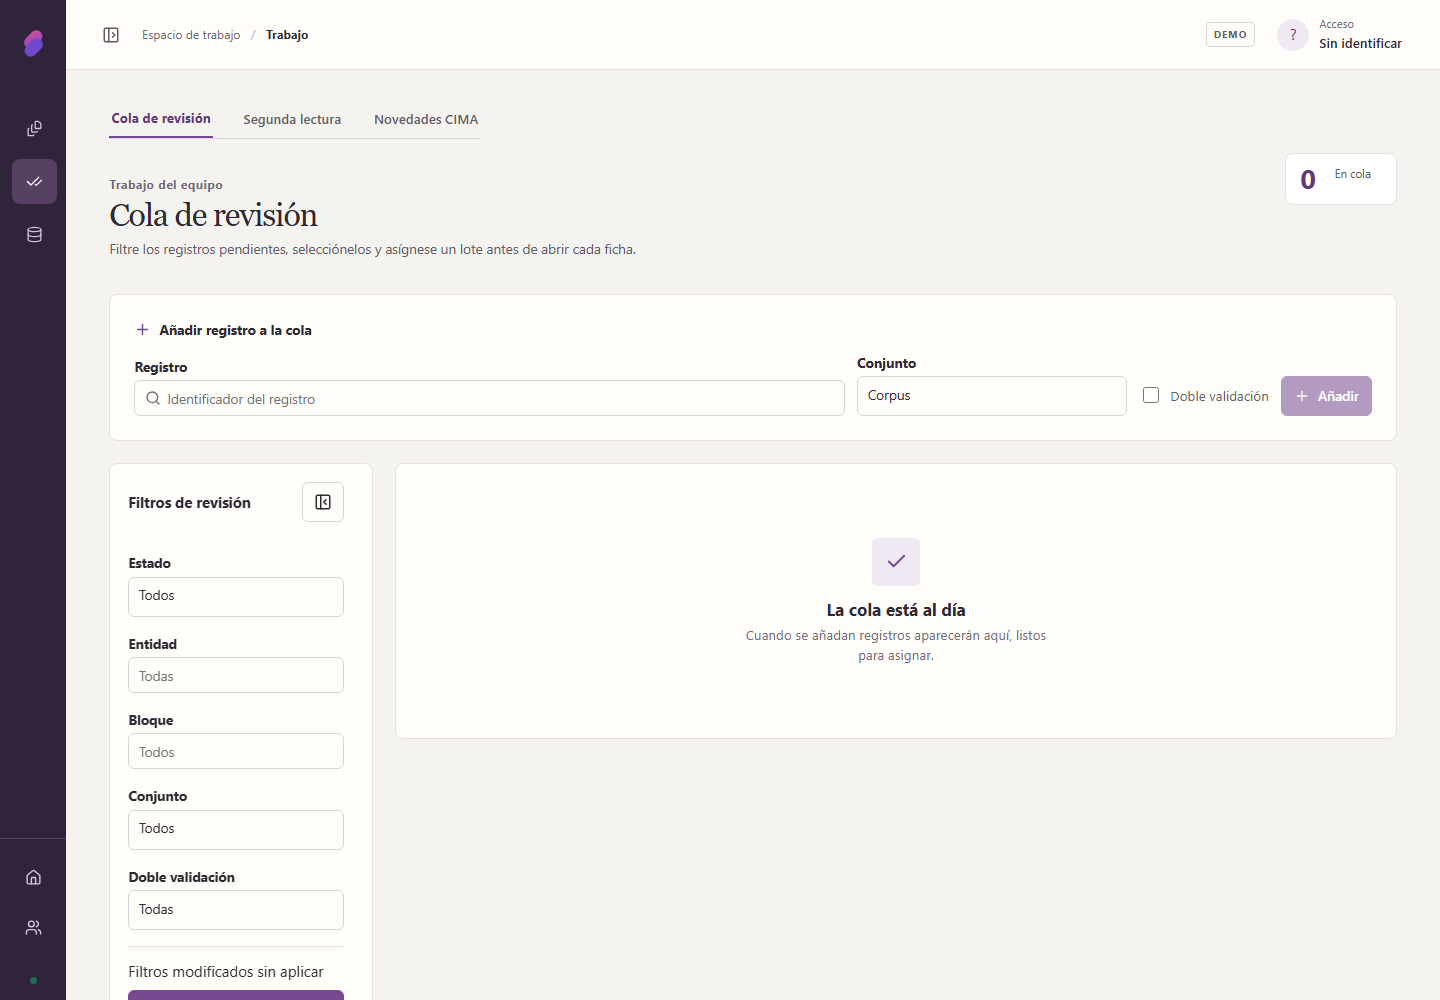
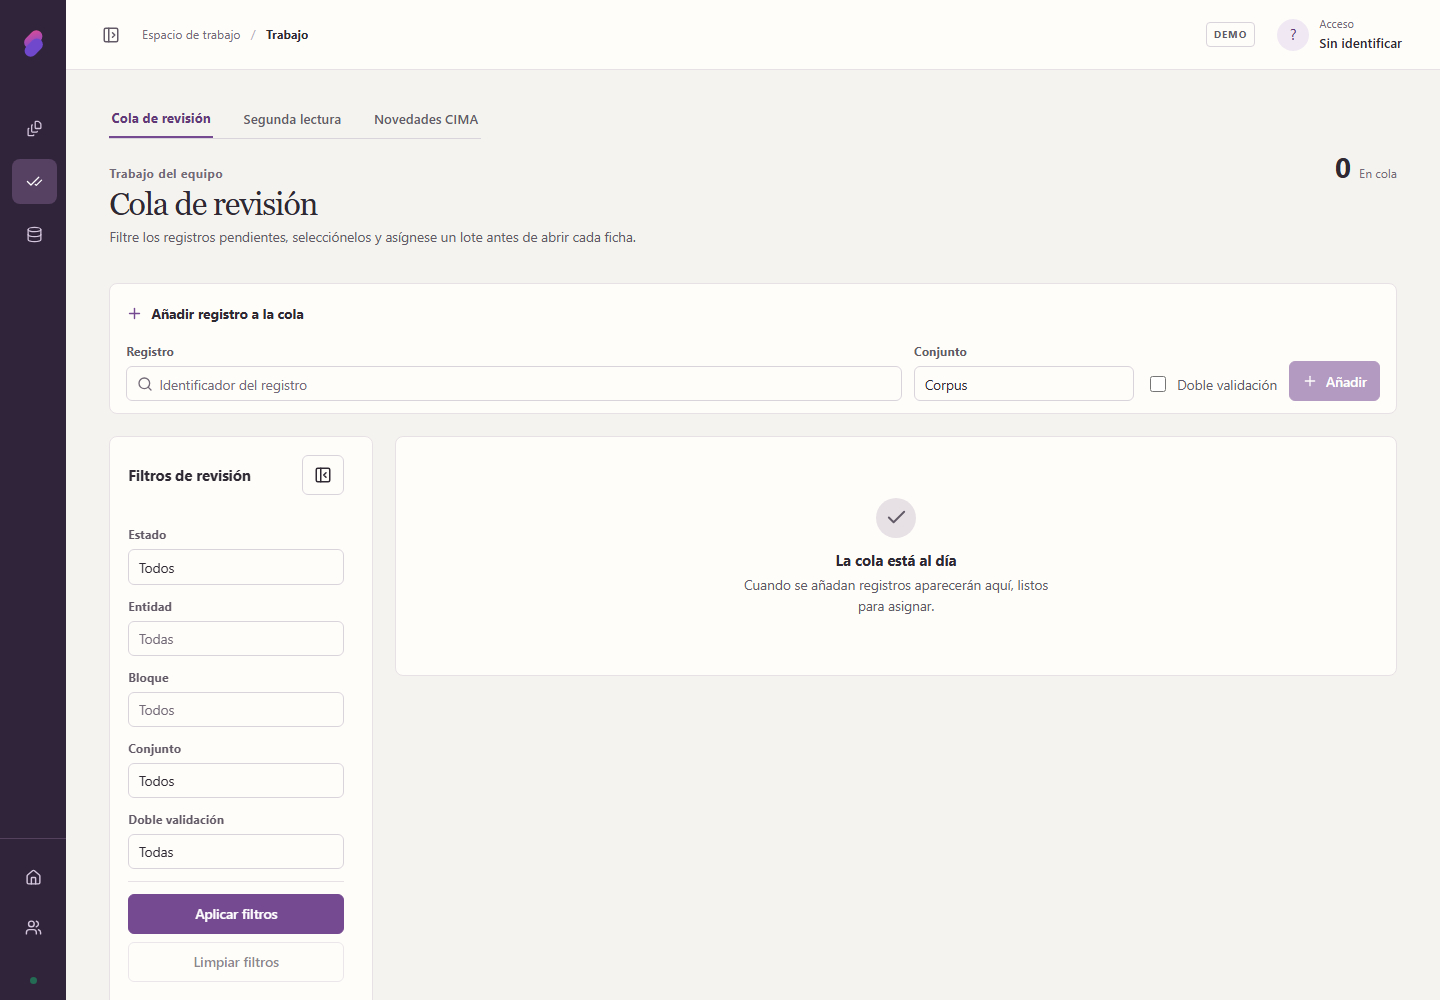
Pulir Trabajo y Fuentes con la capa común
Campos, cifra de cabecera, estado vacío y panel de filtros pasan a la
capa común. La cola agrupa el alta en una fila y usa iconos coherentes;
deja de anunciar «Filtros modificados sin aplicar» al cargar, porque
comparaba filtros vacíos con un objeto sin claves. Fuentes oculta el
recuento cuando no hay libro, muestra los nombres de archivo en
monoespaciada y separa el aviso DEMO. Los errores sueltos se ven como
aviso.

diff --git a/validador-fichas-tecnicas-repo-kit/frontend/src/screens/QueueScreen.tsx b/validador-fichas-tecnicas-repo-kit/frontend/src/screens/QueueScreen.tsx
@@ -10,7 +10,7 @@ import {
 import type { QueueItem } from '../api/client'
 import type { Reviewer } from '../api/types'
 import { navigate } from '../navigation'
-import { Check, Plus, RefreshCw, Search } from 'lucide-react'
+import { Check, FileText, Plus, RefreshCw, Search } from 'lucide-react'
 import { FilterWorkspace } from '../components/FilterWorkspace'
 import { PageHeader } from '../components/PageHeader'
 import { useCapability } from '../auth/SessionContext'
@@ -48,7 +48,10 @@ export function QueueScreen({ reviewer }: { reviewer: Reviewer | null }) {
   }
 
   const activeFilterCount = [filter, entityFilter, blockFilter, setFilter, secondFilter].filter(Boolean).length
-  const filtersChanged = JSON.stringify(filters) !== JSON.stringify(appliedFilters.current)
+  // Un filtro vacío equivale a no filtrar: sin normalizar, el estado inicial
+  // ({ state: '' …} frente a {}) se anunciaba como «modificado sin aplicar».
+  const meaningful = (value: object) => JSON.stringify(Object.entries(value).filter(([, entry]) => entry !== '' && entry !== undefined))
+  const filtersChanged = meaningful(filters) !== meaningful(appliedFilters.current)
 
   async function reload(applyDraft = false) {
     const requestedFilters = applyDraft ? filters : appliedFilters.current
@@ -148,12 +151,12 @@ export function QueueScreen({ reviewer }: { reviewer: Reviewer | null }) {
         <span>{selected.length} seleccionados</span>
         <button className='button button--primary' disabled={!canReview || busy || !reviewer} onClick={() => void act(() => assignQueueBatch(items.filter((item) => selected.includes(item.target_record_id)), reviewer!.identifier))}>Asignarme lote</button>
       </div>}
-      {loading && <div className='empty-state' role='status'><span className='empty-state__icon'>↻</span><h2>Cargando cola…</h2></div>}
+      {loading && <div className='empty-state' role='status'><span className='empty-state__icon' aria-hidden='true'><RefreshCw size={18} /></span><h2>Cargando cola…</h2></div>}
       {!loading && !error && visibleItems.length === 0 && <div className='empty-state queue-empty'><span className='empty-state__icon' aria-hidden='true'><Check size={23} /></span><h2>{appliedFilterCount > 0 ? 'No hay resultados' : 'La cola está al día'}</h2><p>{appliedFilterCount > 0 ? 'Ningún registro coincide con los filtros aplicados.' : 'Cuando se añadan registros aparecerán aquí, listos para asignar.'}</p>{appliedFilterCount > 0 && <button type='button' className='button button--secondary' onClick={() => void clearFilters()}>Limpiar filtros</button>}</div>}
       {!loading && visibleItems.length > 0 && <ul className='queue-list'>
         {visibleItems.map((item) => <li key={item.target_record_id}>
           <input type='checkbox' aria-label={`Seleccionar ${item.target_record_id}`} checked={selected.includes(item.target_record_id)} disabled={!['pendiente', 'asignado', 'en_revision'].includes(item.state)} onChange={(event) => setSelected((current) => event.target.checked ? [...current, item.target_record_id] : current.filter((id) => id !== item.target_record_id))} />
-          <div className='queue-list__identity'><span className='queue-list__icon' aria-hidden='true'>▤</span><span><strong>{item.target_record_id}</strong><small className='queue-list__meta'><span>{item.assignee_id ? `Asignado a ${item.assignee_id}` : 'Sin asignar'}</span><span>Conjunto {item.review_set ?? 'corpus'}</span>{item.requires_second_review && <span>Doble validación</span>}</small></span></div>
+          <div className='queue-list__identity'><span className='queue-list__icon' aria-hidden='true'><FileText size={15} /></span><span><strong>{item.target_record_id}</strong><small className='queue-list__meta'><span>{item.assignee_id ? `Asignado a ${item.assignee_id}` : 'Sin asignar'}</span><span>Conjunto {item.review_set ?? 'corpus'}</span>{item.requires_second_review && <span>Doble validación</span>}</small></span></div>
           <span className={`badge badge--${item.state}`}>{labels[item.state] ?? item.state}</span>
           <div className='queue-list__actions'>
           <button className='button' disabled={!canReview || busy || loading || !reviewer || ['completado', 'bloqueado'].includes(item.state)}

diff --git a/validador-fichas-tecnicas-repo-kit/frontend/src/ui/components.css b/validador-fichas-tecnicas-repo-kit/frontend/src/ui/components.css
@@ -163,3 +163,48 @@ code, kbd, .mono { font-family: var(--font-mono); font-size: .92em; font-variant
 .app-shell a.button { text-decoration: none; }
 .app-shell .button.back { justify-self: start; min-height: 28px; margin-left: calc(var(--space-2) * -1); padding-inline: var(--space-2); color: var(--ink-soft); }
 .app-shell .button.back:hover:not(:disabled) { color: var(--ink); background: var(--line-soft); }
+
+/* ── Campos de formulario ──────────────────────────────────────────────── */
+.app-shell .field { display: grid; gap: 6px; min-width: 0; }
+.app-shell .field__label { color: var(--ink-soft); font-size: var(--text-xs); font-weight: var(--weight-semibold); letter-spacing: .01em; }
+.app-shell :is(input[type='text'], input[type='search'], input:not([type]), select) {
+  min-height: 34px;
+  border-color: var(--line);
+  border-radius: var(--radius-control);
+  background-color: var(--surface);
+  font-size: var(--text-sm);
+}
+.app-shell :is(input, select, textarea):hover:not(:disabled):not(:focus) { border-color: var(--ink-faint); }
+.app-shell :is(input, select, textarea)::placeholder { color: var(--ink-faint); }
+
+/* ── Cifra de cabecera ─────────────────────────────────────────────────── */
+/* Una cifra acompaña al título; no es una tarjeta que compita con él. */
+.app-shell .page-stat {
+  display: inline-flex;
+  align-items: baseline;
+  gap: var(--space-2);
+  min-width: 0;
+  padding: 0;
+  border: 0;
+  background: none;
+  box-shadow: none;
+}
+/* Cifras siempre en la letra de interfaz: la de títulos usa numerales de estilo antiguo (el 0 se confunde con la O). */
+.app-shell .page-stat strong { color: var(--ink); font-family: var(--font-ui); font-size: 1.75rem; font-weight: var(--weight-semibold); font-variant-numeric: tabular-nums; line-height: 1; }
+.app-shell .page-stat span { color: var(--ink-faint); font-size: var(--text-xs); }
+
+/* ── Estado vacío ilustrado ────────────────────────────────────────────── */
+.app-shell .empty-state { padding: var(--space-8) var(--space-4); }
+.app-shell .empty-state__icon { width: 40px; height: 40px; margin-bottom: var(--space-3); border-radius: 50%; color: var(--ink-soft); background: var(--line-soft); }
+.app-shell .empty-state h2 { font-size: var(--text-base); font-weight: var(--weight-semibold); }
+.app-shell .empty-state p { color: var(--ink-soft); font-size: var(--text-sm); }
+
+/* ── Panel de filtros ──────────────────────────────────────────────────── */
+.app-shell .filter-panel__head h2 { font-size: var(--text-base); }
+.app-shell .filter-panel__head .eyebrow { color: var(--ink-faint); }
+.app-shell .filter-panel__body { gap: var(--space-3); }
+.app-shell .filter-panel__actions { gap: var(--space-2); padding-top: var(--space-3); }
+.app-shell .filter-panel__actions [role='status'] { color: var(--warn); font-size: var(--text-xs); }
+
+/* Errores escritos como párrafo suelto: se leen como aviso, no como contenido. */
+.app-shell p[role='alert']:not(.alert):not(.state) { margin: 0; padding: var(--space-2) var(--space-3); border-left: 2px solid var(--danger); color: var(--danger); background: var(--danger-soft); font-size: var(--text-sm); }

diff --git a/validador-fichas-tecnicas-repo-kit/frontend/src/screens/SourcesScreen.tsx b/validador-fichas-tecnicas-repo-kit/frontend/src/screens/SourcesScreen.tsx
@@ -450,7 +450,7 @@ export function SourcesScreen() {
             return <article className='panel source-master-card' key={filename}>
               <p className='eyebrow'>Libro maestro</p>
               <h3>{profile.title}</h3>
-              <p className='source-master-card__count'>{source ? source.records.toLocaleString('es-ES') : '—'} <span>registros</span></p>
+              {source && <p className='source-master-card__count'>{source.records.toLocaleString('es-ES')} <span>registros</span></p>}
               <p className='source-master-card__meta'>{source ? `${source.versions} ${source.versions === 1 ? 'versión' : 'versiones'} disponible${source.versions === 1 ? '' : 's'}` : 'Sin datos cargados en este entorno'}</p>
               <p className='source-filename' title={filename}>{filename}</p>
               <div className='source-actions'>
@@ -461,7 +461,7 @@ export function SourcesScreen() {
             </article>
           })}
         </div>
-        {databaseInfo?.mode === 'demo' && <p className='muted'>Esta base DEMO contiene datos sintéticos. Los tres maestros originales están en la vista previa REAL.</p>}
+        {databaseInfo?.mode === 'demo' && <p className='muted source-note'>Esta base DEMO contiene datos sintéticos. Los tres maestros originales están en la vista previa REAL.</p>}
         {selectedUpload && <section className='panel' aria-label='Cargar maestro Excel'>
           <div className='panel__head'><h3>Cargar {selectedUpload.replace('_', ' ')}</h3><button type='button' className='button' onClick={() => setSelectedUpload(null)}>Cerrar</button></div>
           <MasterUpload kind={selectedUpload} onImported={() => { setSelectedUpload(null); setRefresh((value) => value + 1) }} />

diff --git a/validador-fichas-tecnicas-repo-kit/frontend/src/screens/work.css b/validador-fichas-tecnicas-repo-kit/frontend/src/screens/work.css
@@ -1,0 +1,20 @@
+/* Trabajo: cola de revisión. */
+
+.app-shell .queue-add {
+  grid-template-columns: minmax(220px, 1fr) minmax(140px, 220px) auto auto;
+  align-items: end;
+  gap: var(--space-3);
+  padding: var(--space-3) var(--space-4);
+}
+.app-shell .queue-add .queue-toolbar__title { display: inline-flex; align-items: center; gap: var(--space-2); min-height: 34px; color: var(--ink); font-size: var(--text-sm); font-weight: var(--weight-semibold); white-space: nowrap; grid-column: 1 / -1; }
+.app-shell .queue-add .queue-check { min-height: 34px; font-size: var(--text-sm); }
+
+.app-shell .queue-list__icon { display: inline-grid; place-items: center; width: 28px; height: 28px; border-radius: var(--radius-small); color: var(--ink-soft); background: var(--line-soft); }
+.app-shell .queue-list__identity strong { font-family: var(--font-mono); font-size: var(--text-sm); font-weight: var(--weight-medium); }
+
+@media (max-width: 1100px) {
+  .app-shell .queue-add { grid-template-columns: minmax(200px, 1fr) minmax(130px, 180px) auto; }
+}
+@media (max-width: 700px) {
+  .app-shell .queue-add { grid-template-columns: 1fr; }
+}

diff --git a/validador-fichas-tecnicas-repo-kit/frontend/src/screens/sources.css b/validador-fichas-tecnicas-repo-kit/frontend/src/screens/sources.css
@@ -1,0 +1,10 @@
+/* Datos: fuentes. */
+
+.app-shell .source-section-heading { align-items: end; }
+.app-shell .source-section-heading h2 { font-family: var(--font-display); font-size: var(--text-xl); font-weight: var(--weight-regular); }
+.app-shell .source-master-card { min-height: 0; gap: var(--space-2); }
+.app-shell .source-master-card h3 { margin: 0; font-size: var(--text-lg); }
+.app-shell .source-master-card__count { font-variant-numeric: tabular-nums; }
+.app-shell .source-master-card__meta { color: var(--ink-soft); font-size: var(--text-sm); }
+.app-shell .source-filename { color: var(--ink-faint); font-family: var(--font-mono); font-size: var(--text-xs); overflow-wrap: anywhere; }
+.app-shell .source-note { margin: var(--space-3) 0 0; font-size: var(--text-sm); }

diff --git a/validador-fichas-tecnicas-repo-kit/frontend/src/main.tsx b/validador-fichas-tecnicas-repo-kit/frontend/src/main.tsx
@@ -8,6 +8,8 @@ import './studio.css'
 import './ui/components.css'
 // Hojas de pantalla migradas: tras los componentes para prevalecer sobre las históricas.
 import './screens/catalog.css'
+import './screens/work.css'
+import './screens/sources.css'
 
 const root = document.getElementById('root')
 
